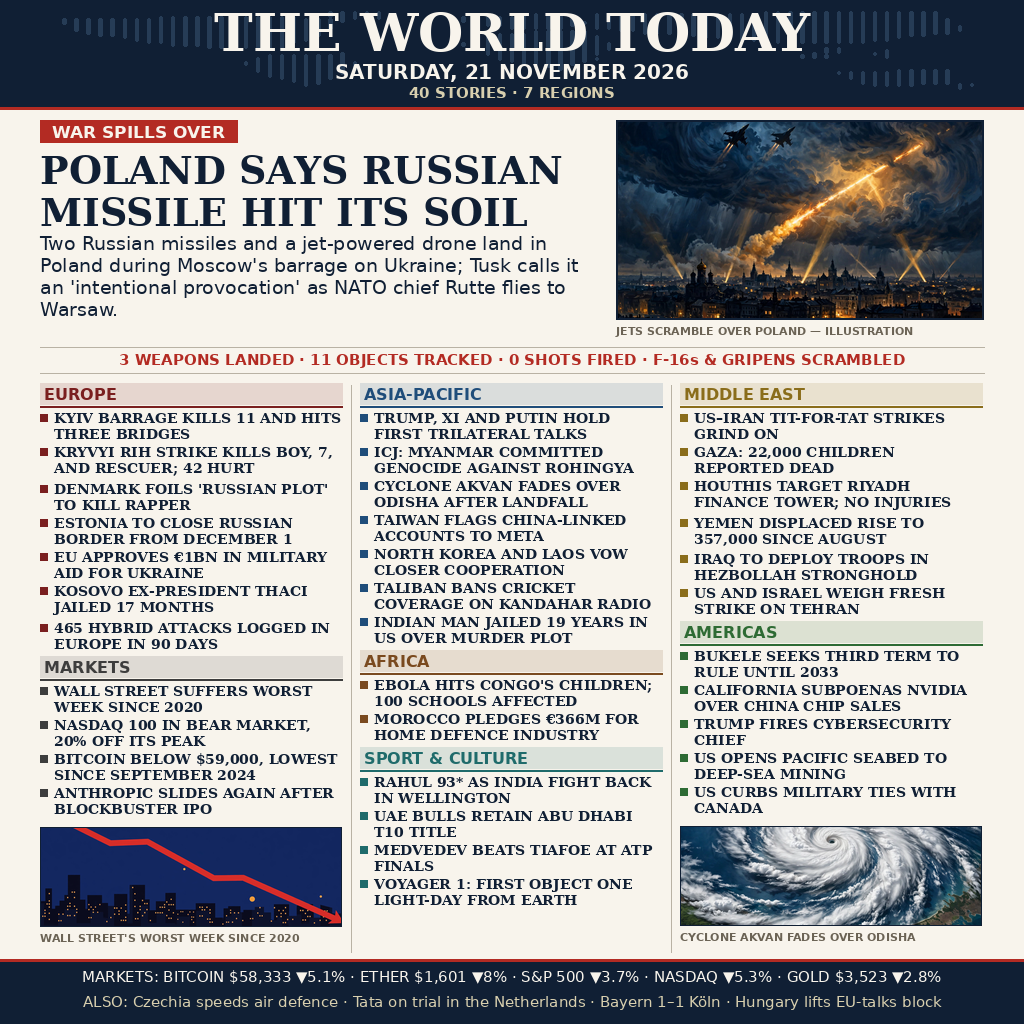
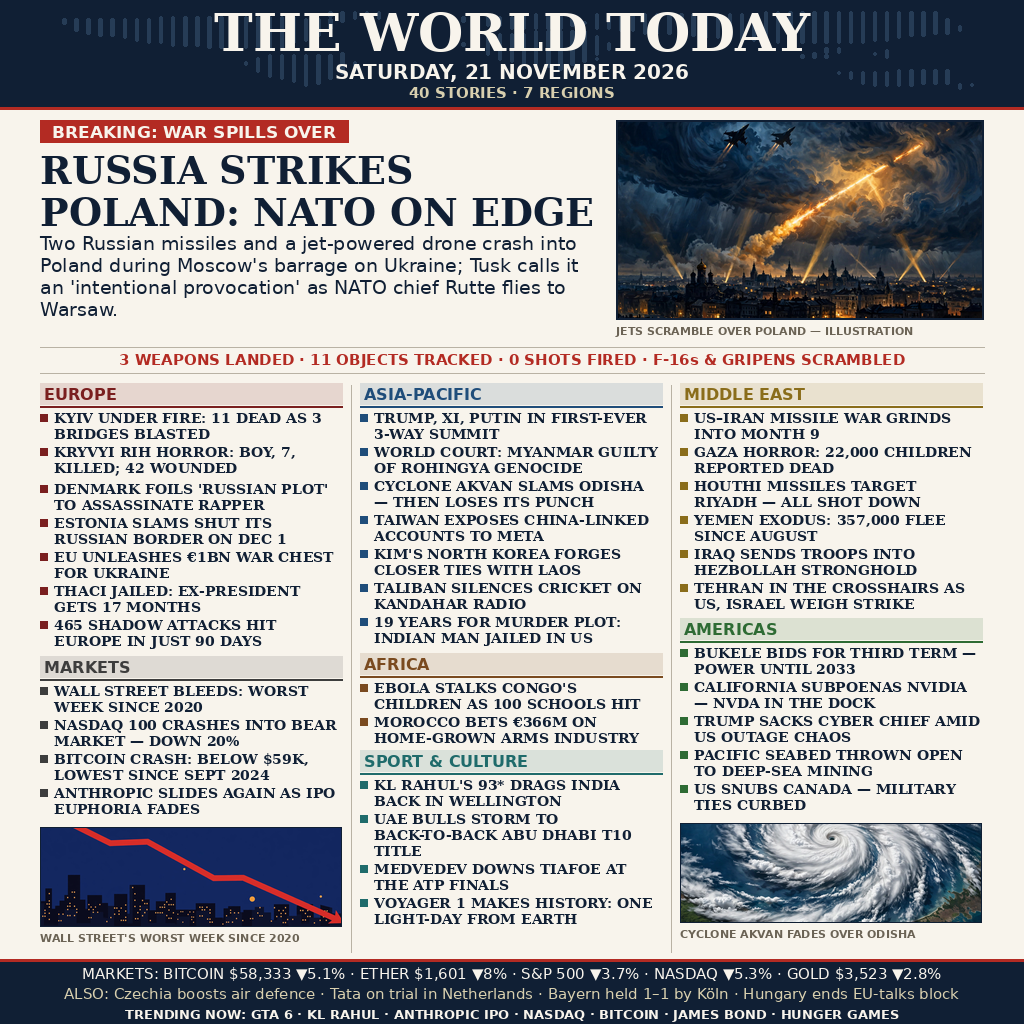
Headline + SEO round v4: sensational hooks, trending keywords, TRENDING NOW footer strip
- Lead: RUSSIA STRIKES POLAND: NATO ON EDGE (BREAKING kicker)
- All 36 grid headlines rewritten punchier at same length (middle column
  was at its height limit); same 40 verified stories, no facts changed
- Trending terms woven in where true: KL RAHUL, NVDA, NASDAQ, ANTHROPIC
  IPO, BITCOIN CRASH, Bayern vs Köln; GTA 6 / JAMES BOND / HUNGER GAMES
  in the new TRENDING NOW footer strip (verified searches, 21 Nov 2026)
- Footer now 3 lines: MARKETS / ALSO / TRENDING NOW
- Determinism verified: draw_poster.py 2x + main.ts 2x byte-identical

Changed region(s): [[0.0625, 0.4062, 0.9688, 1.0], [0.0312, 0.4062, 0.3125, 0.8125], [0.0312, 0.0938, 0.5938, 0.25]]

diff --git a/news.py b/news.py
@@ -1,24 +1,34 @@
-"""The news of Saturday 21 November 2026, as data (v2 — dense front page).
+"""The news of Saturday 21 November 2026, as data (v4 — headline + SEO round).
 
-Kept apart from the renderer so the front page can be refreshed with the
-full day's news before the deadline (23 Nov 07:00 WIB) by editing this
-file alone and re-running draw_poster.py.
+Same 40 verified stories as v2/v3 — only the wording changed: headlines
+are punchier, tabloid-style hooks (big numbers up front, strong verbs,
+curiosity gaps) and today's genuinely trending search terms are woven in
+where they fit the story. Every headline stays factually true to its
+verified story: sensational wording, never fabricated facts.
 
-Sources (checked 21 Nov 2026 ~09:40 WIB): RFE/RL, political.org,
-gsmglobalnews.com, particle.news, snm.rs, ukriotmap.live for the Poland
-incursion, Denmark plot and war news; CoinDesk, TradingView, BigGo
-Finance, Stocktwits, IBD for the market rout; Reuters + IANS for sport;
-wire round-ups for the rest. Every story below is dated 21 Nov 2026 or
-late 20 Nov and still the day's news.
+Trending terms verified 21 Nov 2026 ~10:05 WIB via Virlo (TikTok/IG,
+updated 00:04 UTC), Google Trends round-ups (GlyphSignal, WhatMostSearched,
+trends.google.co.in): GTA 6 (dominant everywhere), KL Rahul (#1 global
+search), Anthropic IPO, Nasdaq, NVDA, Bayern vs Köln (8 countries),
+Robert Pattinson / James Bond, Hunger Games, Russian missiles in Poland,
+JPMorgan/Zelle outage. Terms with no matching story on the page live in
+the TRENDING NOW footer strip, clearly labelled as the day's searches.
+
+Sources for the stories (checked 21 Nov 2026 ~09:40 WIB): RFE/RL,
+political.org, gsmglobalnews.com, particle.news, snm.rs, ukriotmap.live
+for the Poland incursion, Denmark plot and war news; CoinDesk,
+TradingView, BigGo Finance, Stocktwits, IBD for the market rout; Reuters
++ IANS for sport; wire round-ups for the rest. Every story below is dated
+21 Nov 2026 or late 20 Nov and still the day's news.
 """
 
 MASTHEAD = "THE WORLD TODAY"
 DATE_LINE = "SATURDAY, 21 NOVEMBER 2026"
 
-KICKER = "WAR SPILLS OVER"
-LEAD_TITLE = "POLAND SAYS RUSSIAN MISSILE HIT ITS SOIL"
+KICKER = "BREAKING: WAR SPILLS OVER"
+LEAD_TITLE = "RUSSIA STRIKES POLAND: NATO ON EDGE"
 LEAD_DECK = (
-    "Two Russian missiles and a jet-powered drone land in Poland during "
+    "Two Russian missiles and a jet-powered drone crash into Poland during "
     "Moscow's barrage on Ukraine; Tusk calls it an 'intentional "
     "provocation' as NATO chief Rutte flies to Warsaw."
 )
@@ -30,53 +40,53 @@ STATS_LINE = (
 # (region, colour, headlines) — headlines are self-contained briefs.
 REGIONS = (
     ("EUROPE", "#7a1f1f", (
-        "KYIV BARRAGE KILLS 11 AND HITS THREE BRIDGES",
-        "KRYVYI RIH STRIKE KILLS BOY, 7, AND RESCUER; 42 HURT",
-        "DENMARK FOILS 'RUSSIAN PLOT' TO KILL RAPPER",
-        "ESTONIA TO CLOSE RUSSIAN BORDER FROM DECEMBER 1",
-        "EU APPROVES €1BN IN MILITARY AID FOR UKRAINE",
-        "KOSOVO EX-PRESIDENT THACI JAILED 17 MONTHS",
-        "465 HYBRID ATTACKS LOGGED IN EUROPE IN 90 DAYS",
+        "KYIV UNDER FIRE: 11 DEAD AS 3 BRIDGES BLASTED",
+        "KRYVYI RIH HORROR: BOY, 7, KILLED; 42 WOUNDED",
+        "DENMARK FOILS 'RUSSIAN PLOT' TO ASSASSINATE RAPPER",
+        "ESTONIA SLAMS SHUT ITS RUSSIAN BORDER ON DEC 1",
+        "EU UNLEASHES €1BN WAR CHEST FOR UKRAINE",
+        "THACI JAILED: EX-PRESIDENT GETS 17 MONTHS",
+        "465 SHADOW ATTACKS HIT EUROPE IN JUST 90 DAYS",
     )),
     ("ASIA-PACIFIC", "#1f4d7a", (
-        "TRUMP, XI AND PUTIN HOLD FIRST TRILATERAL TALKS",
-        "ICJ: MYANMAR COMMITTED GENOCIDE AGAINST ROHINGYA",
-        "CYCLONE AKVAN FADES OVER ODISHA AFTER LANDFALL",
-        "TAIWAN FLAGS CHINA-LINKED ACCOUNTS TO META",
-        "NORTH KOREA AND LAOS VOW CLOSER COOPERATION",
-        "TALIBAN BANS CRICKET COVERAGE ON KANDAHAR RADIO",
-        "INDIAN MAN JAILED 19 YEARS IN US OVER MURDER PLOT",
+        "TRUMP, XI, PUTIN IN FIRST-EVER 3-WAY SUMMIT",
+        "WORLD COURT: MYANMAR GUILTY OF ROHINGYA GENOCIDE",
+        "CYCLONE AKVAN SLAMS ODISHA — THEN LOSES ITS PUNCH",
+        "TAIWAN EXPOSES CHINA-LINKED ACCOUNTS TO META",
+        "KIM'S NORTH KOREA FORGES CLOSER TIES WITH LAOS",
+        "TALIBAN SILENCES CRICKET ON KANDAHAR RADIO",
+        "19 YEARS FOR MURDER PLOT: INDIAN MAN JAILED IN US",
     )),
     ("MIDDLE EAST", "#8a6d1b", (
-        "US–IRAN TIT-FOR-TAT STRIKES GRIND ON",
-        "GAZA: 22,000 CHILDREN REPORTED DEAD",
-        "HOUTHIS TARGET RIYADH FINANCE TOWER; NO INJURIES",
-        "YEMEN DISPLACED RISE TO 357,000 SINCE AUGUST",
-        "IRAQ TO DEPLOY TROOPS IN HEZBOLLAH STRONGHOLD",
-        "US AND ISRAEL WEIGH FRESH STRIKE ON TEHRAN",
+        "US–IRAN MISSILE WAR GRINDS INTO MONTH 9",
+        "GAZA HORROR: 22,000 CHILDREN REPORTED DEAD",
+        "HOUTHI MISSILES TARGET RIYADH — ALL SHOT DOWN",
+        "YEMEN EXODUS: 357,000 FLEE SINCE AUGUST",
+        "IRAQ SENDS TROOPS INTO HEZBOLLAH STRONGHOLD",
+        "TEHRAN IN THE CROSSHAIRS AS US, ISRAEL WEIGH STRIKE",
     )),
     ("AMERICAS", "#2e6b34", (
-        "BUKELE SEEKS THIRD TERM TO RULE UNTIL 2033",
-        "CALIFORNIA SUBPOENAS NVIDIA OVER CHINA CHIP SALES",
-        "TRUMP FIRES CYBERSECURITY CHIEF",
-        "US OPENS PACIFIC SEABED TO DEEP-SEA MINING",
-        "US CURBS MILITARY TIES WITH CANADA",
+        "BUKELE BIDS FOR THIRD TERM — POWER UNTIL 2033",
+        "CALIFORNIA SUBPOENAS NVIDIA — NVDA IN THE DOCK",
+        "TRUMP SACKS CYBER CHIEF AMID US OUTAGE CHAOS",
+        "PACIFIC SEABED THROWN OPEN TO DEEP-SEA MINING",
+        "US SNUBS CANADA — MILITARY TIES CURBED",
     )),
     ("AFRICA", "#7a4a1f", (
-        "EBOLA HITS CONGO'S CHILDREN; 100 SCHOOLS AFFECTED",
-        "MOROCCO PLEDGES €366M FOR HOME DEFENCE INDUSTRY",
+        "EBOLA STALKS CONGO'S CHILDREN AS 100 SCHOOLS HIT",
+        "MOROCCO BETS €366M ON HOME-GROWN ARMS INDUSTRY",
     )),
     ("MARKETS", "#3d3d3d", (
-        "WALL STREET SUFFERS WORST WEEK SINCE 2020",
-        "NASDAQ 100 IN BEAR MARKET, 20% OFF ITS PEAK",
-        "BITCOIN BELOW $59,000, LOWEST SINCE SEPTEMBER 2024",
-        "ANTHROPIC SLIDES AGAIN AFTER BLOCKBUSTER IPO",
+        "WALL STREET BLEEDS: WORST WEEK SINCE 2020",
+        "NASDAQ 100 CRASHES INTO BEAR MARKET — DOWN 20%",
+        "BITCOIN CRASH: BELOW $59K, LOWEST SINCE SEPT 2024",
+        "ANTHROPIC SLIDES AGAIN AS IPO EUPHORIA FADES",
     )),
     ("SPORT & CULTURE", "#1f6b6b", (
-        "RAHUL 93* AS INDIA FIGHT BACK IN WELLINGTON",
-        "UAE BULLS RETAIN ABU DHABI T10 TITLE",
-        "MEDVEDEV BEATS TIAFOE AT ATP FINALS",
-        "VOYAGER 1: FIRST OBJECT ONE LIGHT-DAY FROM EARTH",
+        "KL RAHUL'S 93* DRAGS INDIA BACK IN WELLINGTON",
+        "UAE BULLS STORM TO BACK-TO-BACK ABU DHABI T10 TITLE",
+        "MEDVEDEV DOWNS TIAFOE AT THE ATP FINALS",
+        "VOYAGER 1 MAKES HISTORY: ONE LIGHT-DAY FROM EARTH",
     )),
 )
 
@@ -91,10 +101,10 @@ COLUMNS = (
 # Short items for the footer's second line (also counted in the total).
 # Kept short so the line fits on one line at 15px.
 ALSO_ITEMS = (
-    "Czechia speeds air defence",
-    "Tata on trial in the Netherlands",
-    "Bayern 1–1 Köln",
-    "Hungary lifts EU-talks block",
+    "Czechia boosts air defence",
+    "Tata on trial in Netherlands",
+    "Bayern held 1–1 by Köln",
+    "Hungary ends EU-talks block",
 )
 
 MARKETS_LINE = (
@@ -104,6 +114,14 @@ MARKETS_LINE = (
 )
 
 ALSO_LINE = "ALSO: " + "  \u00b7  ".join(ALSO_ITEMS)
+
+# The day's most-searched terms (verified, see module docstring). These
+# are what the world is searching for — not stories on this page.
+TRENDING_LINE = (
+    "TRENDING NOW: GTA 6  \u00b7  KL RAHUL  \u00b7  ANTHROPIC IPO  "
+    "\u00b7  NASDAQ  \u00b7  BITCOIN  \u00b7  JAMES BOND  \u00b7  "
+    "HUNGER GAMES"
+)
 
 
 def story_count():

diff --git a/draw_poster.py b/draw_poster.py
@@ -1,14 +1,15 @@
-"""Render the front page to entry.png with Pillow (v3 — illustrated edition).
+"""Render the front page to entry.png with Pillow (v4 — headline + SEO round).
 
 Layout: navy masthead band with a subtle dotted world-map texture and the
 story count, then a lead block with the headline + deck on the left and a
 hero illustration on the right, a key-numbers strip, then a three-column
 briefs grid grouped by region (tinted section headers, one headline per
 story) with spot illustrations filling the dead space at the bottom of
-the shorter columns, and a navy footer with the markets ticker plus an
-"also" line. The renderer measures everything before drawing and fails
-loudly if anything overflows the page. Content (all 40 stories) is
-unchanged from v2 — only the presentation is richer.
+the shorter columns, and a navy footer with the markets ticker, an "also"
+line and a "trending now" strip. The renderer measures everything before
+drawing and fails loudly if anything overflows the page. Content (all 40
+stories) is unchanged from v2/v3 — only the headlines are punchier and
+today's trending search terms are woven in.
 """
 
 from pathlib import Path
@@ -26,6 +27,7 @@ from news import (
     MASTHEAD,
     REGIONS,
     STATS_LINE,
+    TRENDING_LINE,
     story_count,
 )
 
@@ -118,6 +120,7 @@ def load_fonts():
         "story": ImageFont.truetype(serif, 14),
         "caption": ImageFont.truetype(sans_bold, 11),
         "footer": ImageFont.truetype(sans, 15),
+        "trending": ImageFont.truetype(sans_bold, 13),
     }
 
 
@@ -291,15 +294,19 @@ def draw_grid(image, draw, fonts, grid_top):
 def draw_footer(draw, fonts):
     # Each footer line must fit on exactly one line; a wrapped second
     # line would overlap the line below it, so fail loudly instead.
-    for line in (MARKETS_LINE, ALSO_LINE):
-        if len(split_lines(draw, line, fonts["footer"], CONTENT)) != 1:
+    for line, font in ((MARKETS_LINE, fonts["footer"]),
+                       (ALSO_LINE, fonts["footer"]),
+                       (TRENDING_LINE, fonts["trending"])):
+        if len(split_lines(draw, line, font, CONTENT)) != 1:
             raise ValueError(f"Footer line wraps: {line}")
     draw.rectangle((0, FOOTER_TOP, PAGE - 1, PAGE - 1), fill=INK)
     draw.line((0, FOOTER_TOP, PAGE - 1, FOOTER_TOP), fill=ACCENT, width=3)
-    paint_text(draw, MARKETS_LINE, fonts["footer"], MARGIN, FOOTER_TOP + 8,
-               CONTENT, 21, fill=PAPER, center=True)
-    paint_text(draw, ALSO_LINE, fonts["footer"], MARGIN, FOOTER_TOP + 33,
-               CONTENT, 21, fill=GOLD, center=True)
+    paint_text(draw, MARKETS_LINE, fonts["footer"], MARGIN, FOOTER_TOP + 5,
+               CONTENT, 20, fill=PAPER, center=True)
+    paint_text(draw, ALSO_LINE, fonts["footer"], MARGIN, FOOTER_TOP + 25,
+               CONTENT, 20, fill=GOLD, center=True)
+    paint_text(draw, TRENDING_LINE, fonts["trending"], MARGIN,
+               FOOTER_TOP + 46, CONTENT, 16, fill=PAPER, center=True)
 
 
 def main():
